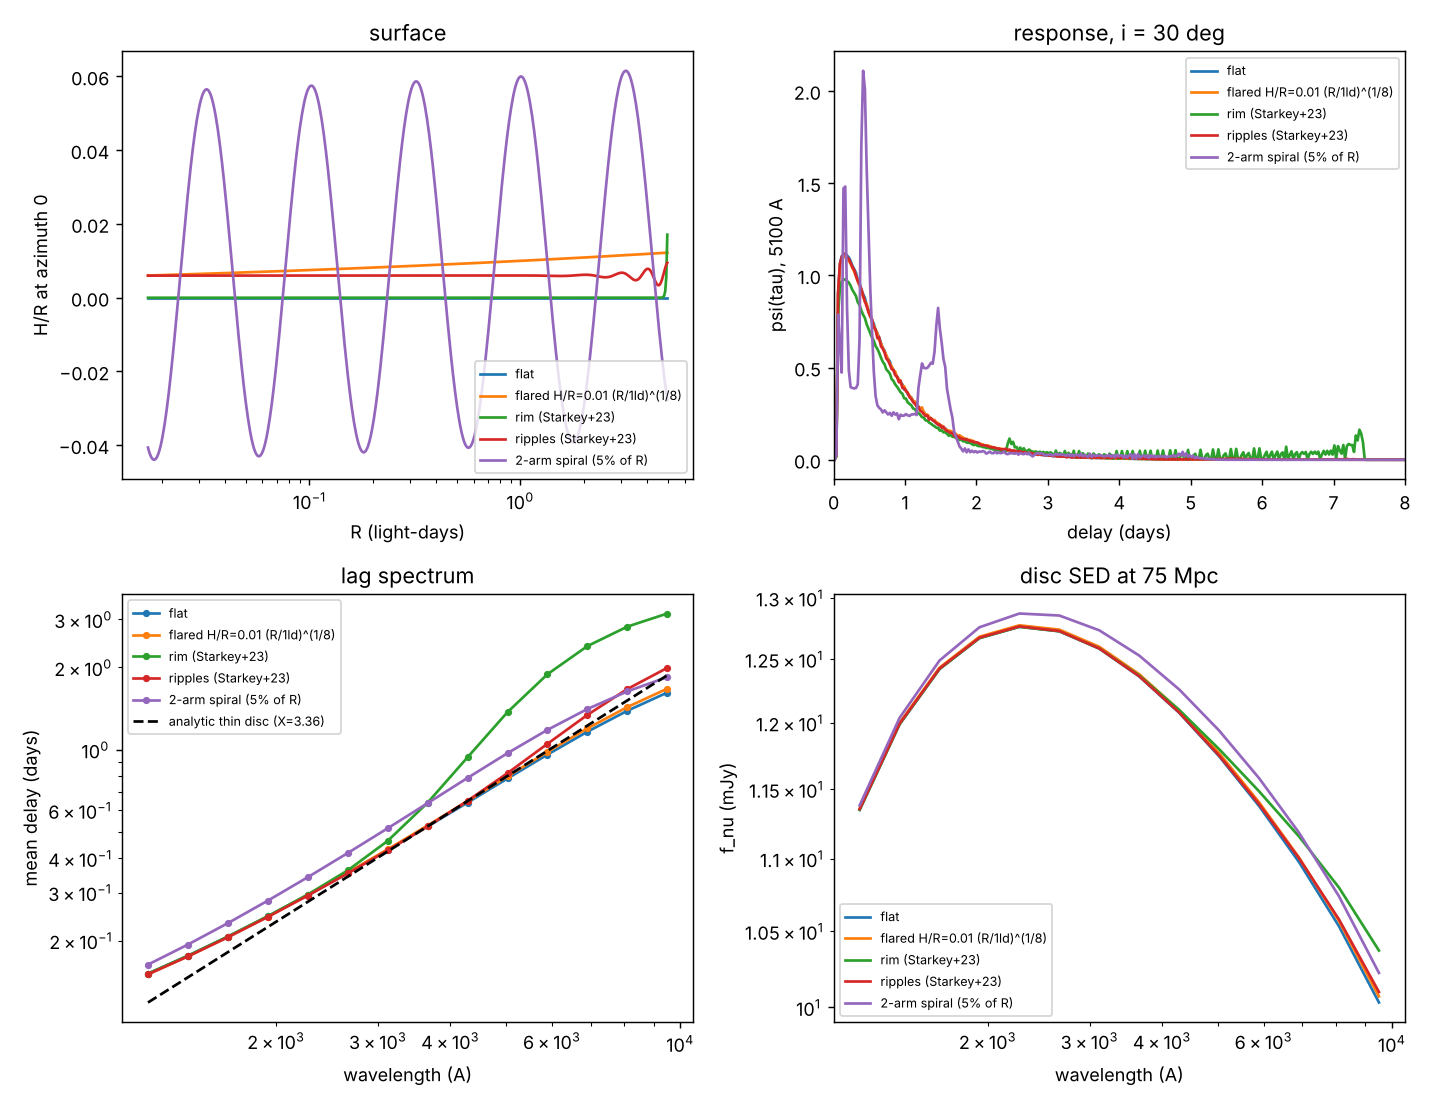
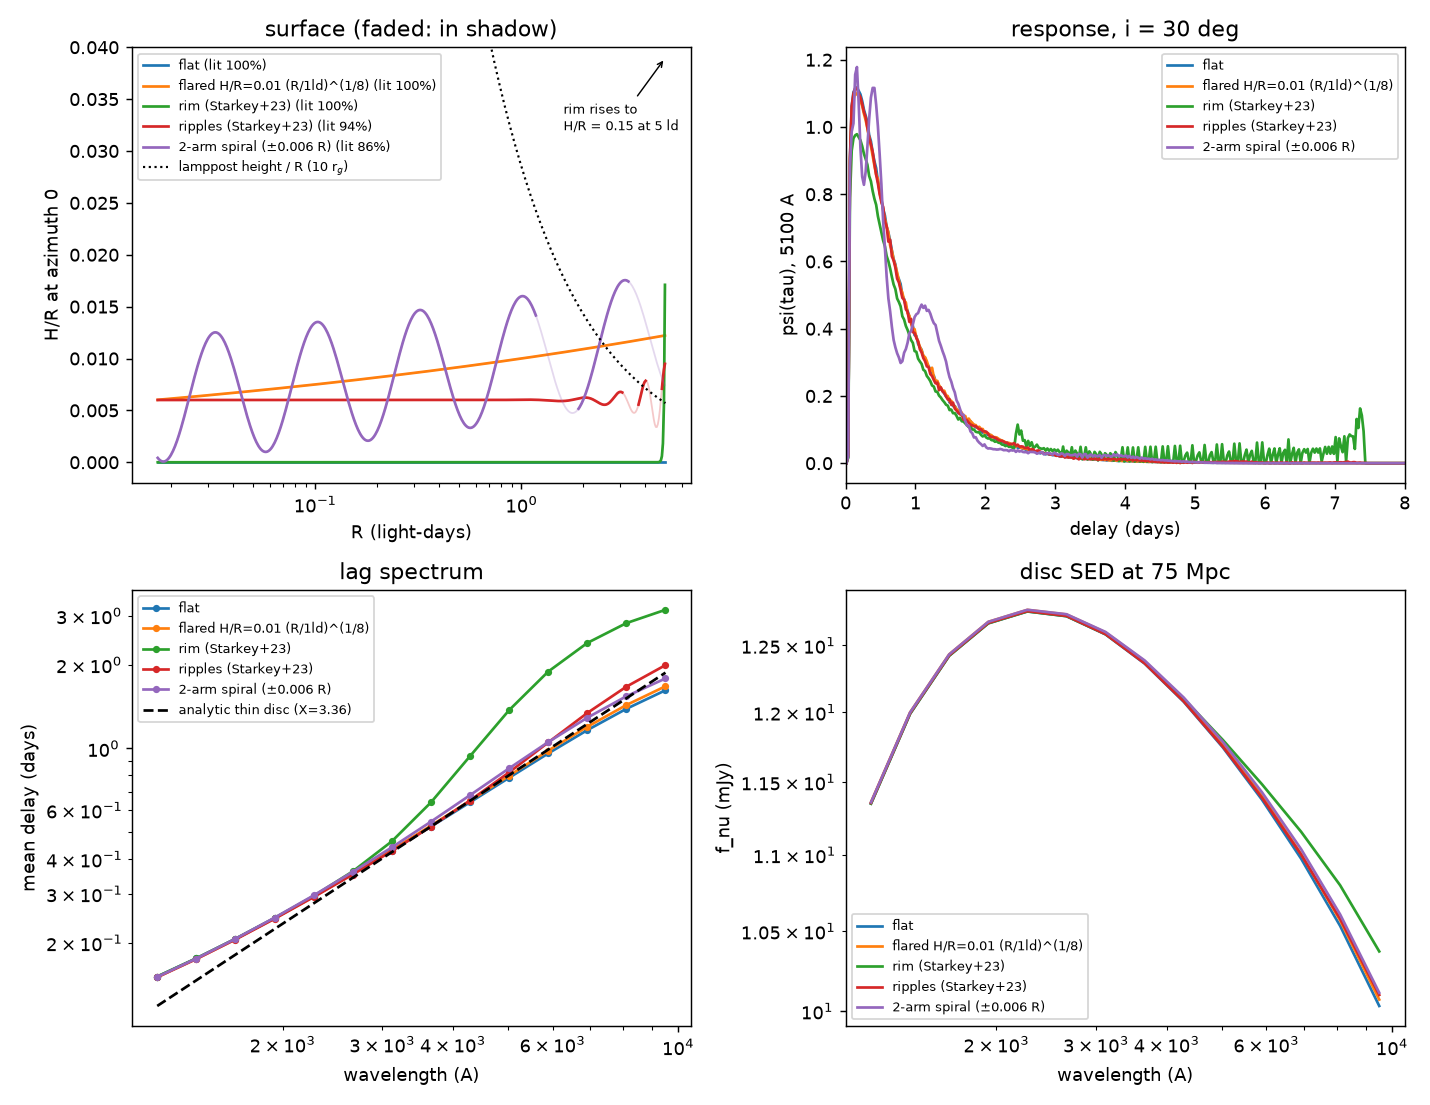
Fix the spiral example, average E2 lags, faster Kaggle downloads
- geometry_responses.py: the spiral corrugation (±0.05 R on H/R 0.01)
  pushed the surface below the mid-plane; use ±0.006 R. The surface panel
  now shows the lamppost's h/R and fades shadowed stretches.
- embedded_body.py: --avg-orbits/--avg-snaps average the lags over
  snapshots in the last orbit and quote the scatter as an error; --h-lp
  sets the lamppost height (with --reuse it only reprocesses).
- remote: E2 batches average over the last orbit; runs.py downloads only
  the tarball and logs (fetching every file one by one could hang).
- README: the 30000-particle animation from Kaggle.

diff --git a/scripts/embedded_body.py b/scripts/embedded_body.py
@@ -14,7 +14,13 @@ Resolution warning: at the default 8000 particles the SPH smoothing length is
 larger than the disc's scale height, so vertical structure is under-resolved.
 It demonstrates the pipeline; science runs want 10^6+ particles (Phantom).
 
-    python scripts/embedded_body.py [--n 8000] [--q 5e-3] [--orbits 1.5] [--out outputs/embedded_body] [--reuse]
+With ``--avg-orbits A``, ``--avg-snaps K`` snapshots are saved over the last A
+orbits and the lags are averaged over them, with their scatter as the error:
+a single snapshot's lag carries particle noise of several per cent.
+``--h-lp`` sets the lamppost height; with ``--reuse`` it only reprocesses.
+
+    python scripts/embedded_body.py [--n 8000] [--q 5e-3] [--orbits 1.5] [--avg-orbits 0] [--avg-snaps 10]
+                                    [--h-lp 10] [--out outputs/embedded_body] [--reuse]
 """
 
 from __future__ import annotations
@@ -40,7 +46,8 @@ H_R, FLARING = 0.05, 0.25   # H/R at 1 ld and its flaring index: a lamppost only
 WAV = np.array([1500.0, 3000.0, 5100.0, 8000.0])
 
 
-def run(q: float, n: int, orbits: float, r_body: float, seed: int = 3):
+def run(q: float, n: int, orbits: float, r_body: float, avg_orbits: float = 0.0, avg_snaps: int = 1,
+        seed: int = 3) -> list[Snapshot]:
     pos, vel, m = thin_disc(n, r_in=1.0, r_out=4.0, aspect_ratio=H_R, flaring_index=FLARING, sigma_slope=1.0,
                             disc_mass=1e-4, gas=True, seed=seed)
     bodies = MassiveBodies.central()
@@ -48,29 +55,28 @@ def run(q: float, n: int, orbits: float, r_body: float, seed: int = 3):
         bodies.add_circular(r_body, q, softening=0.5 * r_body * (q / 3) ** (1 / 3), name="embedded")
     sim = Simulation(bodies, pos, vel, m, potential=CentralPotential(), gas=SPHGas(SPHSettings(aspect_ratio=H_R, flaring_index=FLARING)),
                      r_accrete=0.8, eta_orbit=0.05)
-    t_end = orbits * 2 * np.pi * r_body**1.5
+    period = 2 * np.pi * r_body**1.5
+    t_end = orbits * period
     clock = time.time()
-    snap = sim.run(t_end, verbose=False)[-1]
-    print(f"  q = {q:g}: {len(snap.pos)} particles left, {time.time() - clock:.0f} s")
-    return snap
+    if avg_orbits > 0:
+        sim.run(t_end - avg_orbits * period, verbose=False)
+        # snapshots spread over the averaging window, the last at t_end
+        snaps = sim.run(t_end, snapshot_every=avg_orbits * period / avg_snaps, verbose=False)[1:]
+    else:
+        snaps = sim.run(t_end, verbose=False)[-1:]
+    print(f"  q = {q:g}: {len(snaps[-1].pos)} particles left, {len(snaps)} snapshot(s), {time.time() - clock:.0f} s")
+    return snaps
 
 
 def main(a):
     out = Path(a.out)
     out.mkdir(parents=True, exist_ok=True)
     units = Units(M_BH)
-    phys = DiscPhysics(m_bh=M_BH, mdot=0.05, l_lamppost=3e43, h_lamppost_rg=10.0)
+    phys = DiscPhysics(m_bh=M_BH, mdot=0.05, l_lamppost=3e43, h_lamppost_rg=a.h_lp)
     obs = Observer(30.0, 75.0)
     surface_kw = dict(n_r=20, n_phi=32, kappa=0.4, min_count=6, smooth_phi=5, smooth_r=3)
 
-    results = {}
-    for q in (0.0, a.q):
-        path = out / f"snap_q{q:g}.npz"
-        if a.reuse and path.exists():
-            snap = Snapshot.load(path)
-        else:
-            snap = run(q, a.n, a.orbits, a.r_body)
-            snap.save(path)
+    def reprocess(snap):
         outer = snapshot_surface(snap, units, R_JOIN, 4.0, **surface_kw)
         # the simulation has no gas inside ~1 ld; put an analytic disc there with the
         # simulated disc's innermost H/R, so the UV comes from where it should
@@ -80,7 +86,23 @@ def main(a):
         surf = DiscSurface.stack(inner, outer)
         disc = irradiate(surf, phys)
         rs = response_functions(disc, obs, WAV, tau_max=10.0, n_tau=300, smooth_days=0.05)
-        results[q] = (snap, surf, disc, rs)
+        return surf, disc, rs
+
+    results, lags = {}, {}
+    for q in (0.0, a.q):
+        paths = sorted(out.glob(f"snap_q{q:g}_k*.npz")) or sorted(out.glob(f"snap_q{q:g}.npz"))
+        if a.reuse and paths:
+            snaps = [Snapshot.load(p) for p in paths]
+        else:
+            snaps = run(q, a.n, a.orbits, a.r_body, a.avg_orbits, a.avg_snaps)
+            if len(snaps) == 1:
+                snaps[0].save(out / f"snap_q{q:g}.npz")
+            else:
+                for k, snap in enumerate(snaps):
+                    snap.save(out / f"snap_q{q:g}_k{k:02d}.npz")
+        reproc = [reprocess(s) for s in snaps]
+        lags[q] = np.array([rs.mean_lag() for _, _, rs in reproc])
+        results[q] = (snaps[-1], *reproc[-1])
 
     fig, ax = plt.subplots(2, 3, figsize=(15, 9))
     for row, (q, (snap, surf, disc, rs)) in enumerate(results.items()):
@@ -104,9 +126,16 @@ def main(a):
         ax[row, 2].legend(fontsize=8)
     fig.tight_layout()
     fig.savefig(out / "embedded_body.png", dpi=120)
-    lag0, lag1 = results[0.0][3].mean_lag(), results[a.q][3].mean_lag()
-    for w, l0, l1 in zip(WAV, lag0, lag1):
-        print(f"  {w:6.0f} A  <tau> no body {l0:5.2f} d   with body {l1:5.2f} d   ratio {l1 / l0:4.2f}")
+    l0, l1 = lags[0.0], lags[a.q]
+    n0, n1 = len(l0), len(l1)
+    ratio = l1.mean(0) / l0.mean(0)
+    # error of the ratio from the snapshot-to-snapshot scatter (standard error of each mean)
+    err = ratio * np.sqrt((l0.std(0, ddof=1) / np.sqrt(n0) / l0.mean(0)) ** 2
+                          + (l1.std(0, ddof=1) / np.sqrt(n1) / l1.mean(0)) ** 2) if min(n0, n1) > 1 else np.nan * ratio
+    print(f"  lamppost {a.h_lp:g} r_g; lags averaged over {n0} / {n1} snapshots")
+    for k, w in enumerate(WAV):
+        print(f"  {w:6.0f} A  <tau> no body {l0[:, k].mean():5.2f} d   with body {l1[:, k].mean():5.2f} d   "
+              f"ratio {ratio[k]:4.2f} +- {err[k]:4.2f}")
     print("wrote", out / "embedded_body.png")
 
 
@@ -116,6 +145,9 @@ if __name__ == "__main__":
     p.add_argument("--q", type=float, default=5e-3)
     p.add_argument("--orbits", type=float, default=1.5)
     p.add_argument("--r-body", type=float, default=2.2)
+    p.add_argument("--avg-orbits", type=float, default=0.0, help="average the lags over the last this many orbits")
+    p.add_argument("--avg-snaps", type=int, default=10, help="snapshots in the averaging window")
+    p.add_argument("--h-lp", type=float, default=10.0, help="lamppost height (r_g)")
     p.add_argument("--out", default="outputs/embedded_body")
     p.add_argument("--reuse", action="store_true", help="reuse saved snapshots in --out instead of re-running")
     main(p.parse_args())

diff --git a/scripts/geometry_responses.py b/scripts/geometry_responses.py
@@ -40,7 +40,8 @@ def geometries():
         "rim (Starkey+23)": starkey2023(height=0.15, r_ref=R_OUT, beta=100.0),
         "ripples (Starkey+23)": starkey2023(height=0.03, r_ref=R_OUT, beta=1.0, ripple_amplitude=0.6,
                                              ripple_wavelength=1.0, ripple_slope=-3.0),
-        "2-arm spiral (5% of R)": spiral(0.05, m=2, pitch_deg=20.0, base=flared(0.01, 1.0, 9.0 / 8.0)),
+        # corrugation smaller than the base height, so the surface stays above the mid-plane
+        "2-arm spiral (±0.006 R)": spiral(0.006, m=2, pitch_deg=20.0, base=flared(0.01, 1.0, 9.0 / 8.0)),
     }
 
 
@@ -59,7 +60,10 @@ def main(out: Path, inclination: float = 30.0):
         f = sed(disc, obs, WAV)
         lag = rs.mean_lag()
         rows.append((name, lag, f, disc.lit.mean()))
-        ax[0, 0].plot(surf.r, surf.z[:, 0] / surf.r, label=name)
+        # solid where the lamppost lights the surface, faded where it is shadowed
+        hr = surf.z[:, 0] / surf.r
+        line, = ax[0, 0].plot(surf.r, np.where(disc.lit[:, 0], hr, np.nan), label=f"{name} (lit {disc.lit.mean():.0%})")
+        ax[0, 0].plot(surf.r, hr, color=line.get_color(), alpha=0.25, lw=1)
         ax[0, 1].plot(rs.tau, rs.psi[np.argmin(abs(WAV - 5100))], label=name)
         ax[1, 0].plot(WAV, lag, "o-", ms=3, label=name)
         ax[1, 1].plot(WAV, f, label=name)
@@ -68,7 +72,12 @@ def main(out: Path, inclination: float = 30.0):
 
     ax[1, 0].plot(WAV, thin_disc_lag(WAV, M_BH, MDOT, L_LP, 0.0, phys.h_lp_ld, x=3.36), "k--",
                   label="analytic thin disc (X=3.36)")
-    ax[0, 0].set(xscale="log", xlabel="R (light-days)", ylabel="H/R at azimuth 0", title="surface")
+    r = np.geomspace(phys.r_in_ld, R_OUT, 200)
+    ax[0, 0].plot(r, phys.h_lp_ld / r, "k:", lw=1.2, label=f"lamppost height / R ({phys.h_lamppost_rg:g} r$_g$)")
+    ax[0, 0].set(xscale="log", xlabel="R (light-days)", ylabel="H/R at azimuth 0", ylim=(-0.002, 0.04),
+                 title="surface (faded: in shadow)")
+    ax[0, 0].annotate("rim rises to\nH/R = 0.15 at 5 ld", xy=(R_OUT, 0.039), xytext=(1.6, 0.032), fontsize=7,
+                      arrowprops=dict(arrowstyle="->", lw=0.8))
     ax[0, 1].set(xlabel="delay (days)", ylabel="psi(tau), 5100 A", title=f"response, i = {inclination:.0f} deg",
                  xlim=(0, 8))
     ax[1, 0].set(xscale="log", yscale="log", xlabel="wavelength (A)", ylabel="mean delay (days)", title="lag spectrum")

diff --git a/remote/build.py b/remote/build.py
@@ -37,8 +37,10 @@ CODE = sorted(p.relative_to(ROOT).as_posix() for p in [*(ROOT / "discsim").glob(
 BATCHES = {
     # smoke test, ~2 minutes: the pipeline end to end on a tiny disc
     "test": ["python scripts/embedded_body.py --n 3000 --orbits 0.3 --out outputs/test"],
-    # E2: embedded body vs none at higher resolution and for longer (each runs a q = 0 twin)
-    **{f"e2_q{tag}": [f"python scripts/embedded_body.py --n 30000 --orbits 8 --q {q} --out outputs/e2_q{tag}"]
+    # E2: embedded body vs none at higher resolution and for longer (each runs a q = 0 twin); lags averaged
+    # over 10 snapshots in the last orbit, which are kept for reprocessing (e.g. other lamppost heights)
+    **{f"e2_q{tag}": [f"python scripts/embedded_body.py --n 30000 --orbits 8 --q {q} --avg-orbits 1 "
+                      f"--avg-snaps 10 --out outputs/e2_q{tag}"]
        for tag, q in [("1e-3", 1e-3), ("5e-3", 5e-3), ("1e-2", 1e-2)]},
     # the README animation at higher resolution
     "anim_hires": ["python scripts/animate_disc.py --n 30000 --orbits 4 --frames 120 --out outputs/anim_hires "

diff --git a/remote/runs.py b/remote/runs.py
@@ -79,7 +79,12 @@ def push(batches) -> None:
 def finish(run: dict, status: str) -> None:
     """Download a finished run's output and record its runtime."""
     dest = OUT / f"{run['batch']}_v{run['version']}"
-    kaggle("kernels", "output", run["slug"], "-p", str(dest))
+    # the tarball and the logs only: fetching hundreds of snapshots and frames one by one is slow and can hang
+    subprocess.run(["kaggle", "kernels", "output", run["slug"], "-p", str(dest), "-o",
+                    "--file-pattern", r"(outputs\.tar\.gz|\.log)$"], capture_output=True, text=True, check=True,
+                   timeout=3600)
+    if (dest / "outputs.tar.gz").exists():
+        subprocess.run(["tar", "xzf", "outputs.tar.gz"], cwd=dest, check=True)
     logs = list(dest.glob("*.log"))
     events = json.loads(logs[0].read_text()) if logs else []
     run.update(status=status, finished=now(), output=str(dest.relative_to(HERE.parent)),

diff --git a/README.md b/README.md
@@ -7,14 +7,14 @@ lag spectra, disc SEDs and mock light curves that
 
 ![Animated SPH disc with an embedded body: surface density, lit photosphere, response functions and side view](docs/images/disc_animation.gif)
 
-*`scripts/animate_disc.py`: 8000 SPH particles around a 5×10^7 M_⊙ black hole
-with an embedded body of mass ratio q = 5×10^-3 at 2.2 light-days, over four of
-its orbits (about 4.2 years). The body launches a spiral wake and starts to
-carve a horseshoe-shaped gap. Each frame is reprocessed as a frozen
-snapshot: the lit photosphere (dark where shadowed or optically thin) and the
-response functions at 1500, 5100 and 8000 Å (dotted: t = 0). The wobble in the
-optical responses (±0.1 d frame to frame) is particle noise at this
-resolution, not a measured effect.*
+*`scripts/animate_disc.py --n 30000` (run on Kaggle): SPH gas around a
+5×10^7 M_⊙ black hole with an embedded body of mass ratio q = 5×10^-3 at 2.2
+light-days, over four of its orbits (about 4.2 years). The body launches a
+spiral wake and starts to carve a horseshoe-shaped gap. Each frame is
+reprocessed as a frozen snapshot: the lit photosphere (dark where shadowed or
+optically thin) and the response functions at 1500, 5100 and 8000 Å (dotted:
+t = 0). The frame-to-frame wobble in the optical responses (±0.06 d at
+8000 Å) is particle noise at this resolution, not a measured effect.*
 
 The motivation is the **disc-size problem**. Continuum lags are 2–5× longer than
 a thin disc of the AGN's luminosity allows (see
